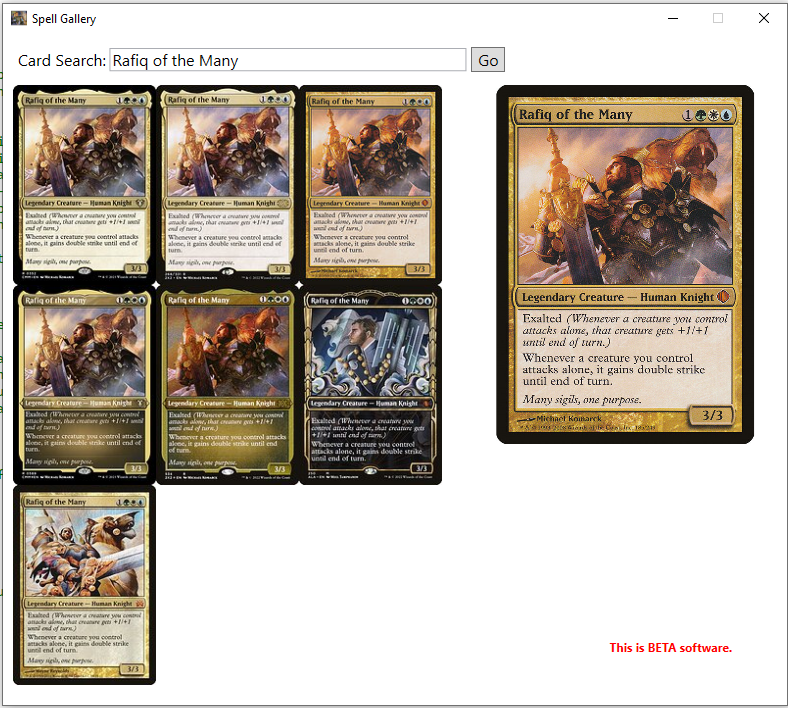
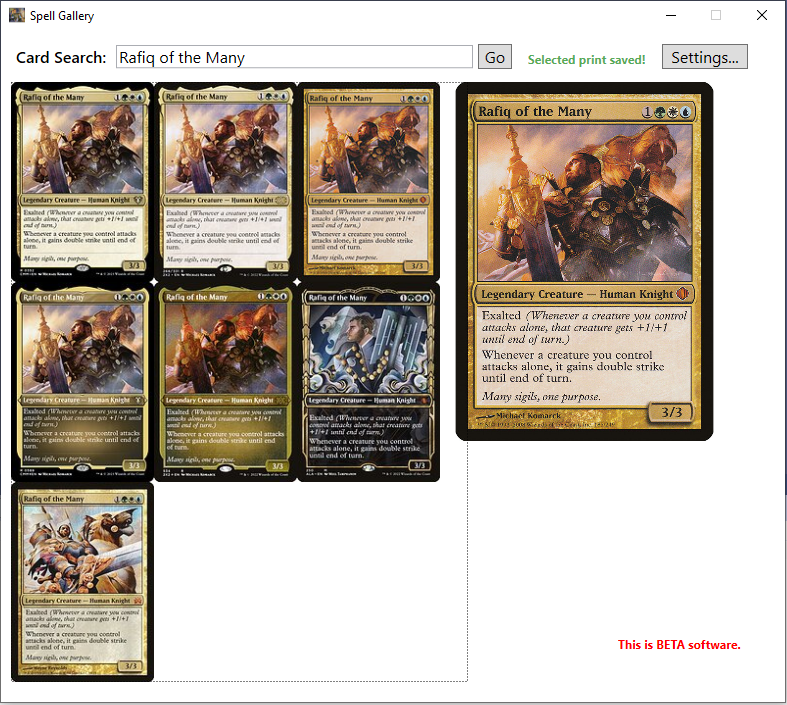
ARR - v0.1.0 - Added setting for custom pics folder

diff --git a/SpellGallery/MainWindow.xaml b/SpellGallery/MainWindow.xaml
@@ -11,13 +11,9 @@
         <autoComplete:CardsProvider x:Key="CardsProvider"/>
     </Window.Resources>
     <Grid>
-        <Grid.ColumnDefinitions>
-            <ColumnDefinition Width="79*"/>
-            <ColumnDefinition Width="721*"/>
-        </Grid.ColumnDefinitions>
-        <Label Content="Card Search:" HorizontalAlignment="Left" Margin="10,10,0,0" VerticalAlignment="Top" FontSize="16" Grid.ColumnSpan="2"/>
-        <editors:AutoCompleteTextBox x:Name="CardNameTextBox" Watermark="Please enter a card name." HorizontalAlignment="Left" Margin="29,14,0,0" VerticalAlignment="Top" Width="357" KeyUp="CardNameTextBox_KeyUp" FontSize="16" Provider="{StaticResource ResourceKey=CardsProvider}" Grid.Column="1" />
-        <Button x:Name="GoButton" Content="Go" HorizontalAlignment="Left" Margin="391,13,0,0" VerticalAlignment="Top" Click="GoButton_Click" FontSize="16" Width="34" Grid.Column="1"/>
+        <Label Content="Card Search:" HorizontalAlignment="Left" Margin="10,10,0,0" VerticalAlignment="Top" FontSize="16" FontWeight="SemiBold"/>
+        <editors:AutoCompleteTextBox x:Name="CardNameTextBox" Watermark="Please enter a card name." HorizontalAlignment="Left" Margin="115,14,0,0" VerticalAlignment="Top" Width="357" KeyUp="CardNameTextBox_KeyUp" FontSize="16" Provider="{StaticResource ResourceKey=CardsProvider}" />
+        <Button x:Name="GoButton" Content="Go" HorizontalAlignment="Left" Margin="477,13,0,0" VerticalAlignment="Top" Click="GoButton_Click" FontSize="16" Width="34"/>
         <ScrollViewer VerticalScrollBarVisibility="Auto" HorizontalScrollBarVisibility="Hidden" Width="457"  Margin="10,51,0,20" HorizontalAlignment="Left" Grid.ColumnSpan="2">
             <Grid x:Name="ThumbnailGrid" HorizontalAlignment="Stretch" VerticalAlignment="Top">
                 <Grid.ColumnDefinitions>
@@ -27,8 +23,9 @@
                 </Grid.ColumnDefinitions>
             </Grid>
         </ScrollViewer>
-        <Label x:Name="SavedLabel" Content="Selected print saved!" HorizontalAlignment="Left" Margin="563,11,0,0" VerticalAlignment="Top" RenderTransformOrigin="0,0.348" Foreground="Green" FontWeight="Bold" Opacity="0" Grid.Column="1"/>
-        <Image x:Name="PreviewImage" Height="359" Margin="395,51,12,0" VerticalAlignment="Top" Grid.Column="1"/>
-        <Label x:Name="BetaLabel" Grid.Column="1" Content="This is BETA software." HorizontalAlignment="Left" Margin="524,600,0,0" VerticalAlignment="Top" Foreground="Red" FontWeight="Bold"/>
+        <Label x:Name="SavedLabel" Content="Selected print saved!" HorizontalAlignment="Left" Margin="522,15,0,0" VerticalAlignment="Top" RenderTransformOrigin="0,0.348" Foreground="Green" FontWeight="Bold" Opacity="0"/>
+        <Image x:Name="PreviewImage" Height="359" Margin="395,51,12,0" VerticalAlignment="Top"/>
+        <Label x:Name="BetaLabel" Content="This is BETA software." HorizontalAlignment="Left" Margin="612,600,0,0" VerticalAlignment="Top" Foreground="Red" FontWeight="Bold"/>
+        <Button x:Name="SettingsButton" Content="Settings..." FontSize="16" HorizontalAlignment="Left" Margin="661,13,0,0" VerticalAlignment="Top" Width="86" Click="SettingsButton_Click"/>
     </Grid>
 </Window>

diff --git a/SpellGallery/SettingsWindow.xaml b/SpellGallery/SettingsWindow.xaml
@@ -1,0 +1,17 @@
+<Window x:Class="SpellGallery.SettingsWindow"
+        xmlns="http://schemas.microsoft.com/winfx/2006/xaml/presentation"
+        xmlns:x="http://schemas.microsoft.com/winfx/2006/xaml"
+        xmlns:d="http://schemas.microsoft.com/expression/blend/2008"
+        xmlns:mc="http://schemas.openxmlformats.org/markup-compatibility/2006"
+        xmlns:local="clr-namespace:SpellGallery"
+        mc:Ignorable="d"
+        Title="Spell Gallery Settings" Height="163" Width="875" Loaded="Window_Loaded" ResizeMode="NoResize" WindowStartupLocation="CenterScreen">
+    <Grid>
+        <Label Content="Custom Pics Folder:" HorizontalAlignment="Left" Margin="10,10,0,0" VerticalAlignment="Top" Width="167" FontSize="16" FontWeight="SemiBold"/>
+        <TextBox x:Name="CustomPicsFolderTextBox" HorizontalAlignment="Left" Margin="177,14,0,0" VerticalAlignment="Top" Width="562" FontSize="16"/>
+        <Button x:Name="CustomPicsFolderBrowseButton" Content="Browse..." FontSize="16" HorizontalAlignment="Left" Margin="744,14,0,0" VerticalAlignment="Top" Width="95" Click="CustomPicsFolderBrowseButton_Click"/>
+        <Button x:Name="SaveButton" Content="Save" FontSize="16" HorizontalAlignment="Left" Margin="702,73,0,0" VerticalAlignment="Top" Width="66" IsDefault="True" Click="SaveButton_Click"/>
+        <Button x:Name="CancelButon" Content="Cancel" FontSize="16" HorizontalAlignment="Left" Margin="773,73,0,0" VerticalAlignment="Top" Width="66" IsCancel="True"/>
+        <Button x:Name="DefaultButton" Content="Use Default Folder" FontSize="16" HorizontalAlignment="Left" Margin="177,42,0,0" VerticalAlignment="Top" Width="157" Click="DefaultButton_Click"/>
+    </Grid>
+</Window>

diff --git a/SpellGallery/MainWindow.xaml.cs b/SpellGallery/MainWindow.xaml.cs
@@ -11,6 +11,7 @@ using System.Windows.Input;
 using System.Windows.Media;
 using System.Windows.Media.Animation;
 using System.Windows.Media.Imaging;
+using SpellGallery.Configuration;
 using SpellGallery.Scryfall;
 using SpellGallery.Scryfall.Models;
 using Exception = System.Exception;
@@ -24,16 +25,17 @@ namespace SpellGallery
     public partial class MainWindow
     {
         #region Private Data Members
-        // Path to the Cockatrice custom art directory, e.g. C:\Users\Username\AppData\Local\Cockatrice\Cockatrice\pics\CUSTOM
-        private readonly string customArtDirectory = Path.Combine(Environment.GetFolderPath(Environment.SpecialFolder.LocalApplicationData), "Cockatrice", "Cockatrice", "pics", "CUSTOM");
-
         // Reusable HTTP Client
         private readonly HttpClient httpClient = new HttpClient();
 
         // Catalog of large bitmap images by URL to quickly swap cache bitmaps on the image preview
         private readonly Dictionary<string, BitmapImage> urlBitmaps = new Dictionary<string, BitmapImage>();
 
+        // The current thumbnail the user clicked down
         private Image mouseDownThumbnail;
+
+        // The program's settings
+        private SpellGallerySettings settings;
         #endregion
 
         #region Constructors
@@ -45,16 +47,12 @@ namespace SpellGallery
             try
             {
                 InitializeComponent();
-
-                if (!Directory.Exists(customArtDirectory))
-                    throw new DirectoryNotFoundException($"Cockatrice custom pics folder not found: {customArtDirectory}");
             }
             catch (Exception ex)
             {
                 HandleException(ex);
             }
         }
-
         #endregion
 
         #region Private Event Handlers
@@ -64,6 +62,10 @@ namespace SpellGallery
             try
             {
                 CardNameTextBox.Focus();
+                settings = SpellGallerySettings.Load();
+
+                if (!Directory.Exists(settings.CustomPicsFolder))
+                    throw new DirectoryNotFoundException($"Cockatrice custom pics folder not found: {settings.CustomPicsFolder}{Environment.NewLine}{Environment.NewLine}Please use the Settings to configure your custom pics folder.");
             }
             catch (Exception ex)
             {
@@ -71,7 +73,7 @@ namespace SpellGallery
             }
         }
 
-        // User taps a key, catches <ENTER>
+        // User taps a key (for catching <ENTER>)
         private async void CardNameTextBox_KeyUp(object sender, KeyEventArgs e)
         {
             try
@@ -129,7 +131,7 @@ namespace SpellGallery
                 var card = (Card)image.Tag;
 
                 var imageBytes = httpClient.GetByteArrayAsync(card.ImageUris.Large).Result;
-                var artPath = Path.Combine(customArtDirectory, $"{card.Name}.jpg");
+                var artPath = Path.Combine(settings.CustomPicsFolder, $"{card.Name}.jpg");
                 
                 File.WriteAllBytes(artPath, imageBytes);
 
@@ -188,6 +190,24 @@ namespace SpellGallery
                 HandleException(ex);
             }
         }
+
+        // User clicked the settings buton
+        private void SettingsButton_Click(object sender, RoutedEventArgs e)
+        {
+            try
+            {
+                var settingsWindow = new SettingsWindow(settings);
+                if (settingsWindow.ShowDialog() == true)
+                {
+                    settings = settingsWindow.Settings;
+                    settings.Save();
+                }
+            }
+            catch (Exception ex)
+            {
+                HandleException(ex);
+            }
+        }
         #endregion
 
         #region Private Methods
@@ -227,6 +247,7 @@ namespace SpellGallery
             }
         }
 
+        // Given a card and location, creates a thumbnail image in the grid
         private Image CreateThumbnailImage(Card card, int col, int row)
         {
             if (card.ImageUris?.Small == null)
@@ -255,6 +276,7 @@ namespace SpellGallery
             return image;
         }
 
+        // Animate the image to indicate it's been selected/clicked
         private void Animate(Image image)
         {
             image.RenderTransform = new ScaleTransform()

diff --git a/SpellGallery/SettingsWindow.xaml.cs b/SpellGallery/SettingsWindow.xaml.cs
@@ -1,0 +1,112 @@
+#region Using Directives
+using System;
+using System.IO;
+using SpellGallery.Configuration;
+using System.Windows;
+using System.Windows.Forms;
+using Microsoft.Win32;
+using MessageBox = System.Windows.MessageBox;
+
+#endregion
+
+namespace SpellGallery
+{
+    /// <summary>
+    /// Interaction logic for SettingsWindow.xaml
+    /// </summary>
+    public partial class SettingsWindow
+    {
+        #region Public Properties
+        /// <summary>
+        /// The program settings
+        /// </summary>
+        public SpellGallerySettings Settings { get; set; }
+        #endregion
+
+        #region Constructors
+        /// <summary>
+        /// Constructor with program settings
+        /// </summary>
+        /// <param name="settings">The program's settings (object will not be modified)</param>
+        public SettingsWindow(SpellGallerySettings settings)
+        {
+            InitializeComponent();
+
+            Settings = (SpellGallerySettings)settings.Clone();
+        }
+        #endregion
+
+        #region Private Event Handlers
+        // Form is loaded for the first time
+        private void Window_Loaded(object sender, RoutedEventArgs e)
+        {
+            try
+            {
+                if (Settings == null)
+                    return;
+
+                CustomPicsFolderTextBox.Text = Settings.CustomPicsFolder;
+                CustomPicsFolderTextBox.Focus();
+            }
+            catch (Exception ex)
+            {
+                HandleException(ex);
+            }
+        }
+
+        // User clicked the Browse button for custom pics folder
+        private void CustomPicsFolderBrowseButton_Click(object sender, RoutedEventArgs e)
+        {
+            try
+            {
+                var dlg = new FolderBrowserDialog();
+                if (dlg.ShowDialog() == System.Windows.Forms.DialogResult.OK)
+                    CustomPicsFolderTextBox.Text = dlg.SelectedPath;
+            }
+            catch (Exception ex)
+            {
+                HandleException(ex);
+            }
+        }
+
+        // User clicks the Save button
+        private void SaveButton_Click(object sender, RoutedEventArgs e)
+        {
+            try
+            {
+                if (!Directory.Exists(CustomPicsFolderTextBox.Text))
+                    throw new DirectoryNotFoundException($"Folder does not exist: {CustomPicsFolderTextBox.Text}");
+
+                Settings.CustomPicsFolder = CustomPicsFolderTextBox.Text;
+                DialogResult = true;
+                Close();
+            }
+            catch (Exception ex)
+            {
+                HandleException(ex);
+            }
+        }
+
+        // User clicks the Use Default button
+        private void DefaultButton_Click(object sender, RoutedEventArgs e)
+        {
+            try
+            {
+                CustomPicsFolderTextBox.Text = new SpellGallerySettings().CustomPicsFolder;
+            }
+            catch (Exception ex)
+            {
+                HandleException(ex);
+            }
+        }
+        #endregion
+
+        #region Private Methods
+        // Shows an error message to the user
+        private void HandleException(Exception ex)
+        {
+            MessageBox.Show($"Error: {ex.Message}", Title);
+        }
+        #endregion
+    }
+}

diff --git a/SpellGallery/Configuration/SpellGallerySettings.cs b/SpellGallery/Configuration/SpellGallerySettings.cs
@@ -1,0 +1,67 @@
+#region Using Directives
+using Newtonsoft.Json;
+using System;
+using System.IO;
+#endregion
+
+namespace SpellGallery.Configuration
+{
+    public class SpellGallerySettings : ICloneable
+    {
+        // The path to the program's settings file
+        private static string SettingsPath => Path.Combine(Environment.GetFolderPath(Environment.SpecialFolder.LocalApplicationData), "SpellGallery", "Settings.json");
+
+        #region Public Properties
+        /// <summary>
+        /// Path to the Cockatrice custom pics directory, e.g. C:\Users\Username\AppData\Local\Cockatrice\Cockatrice\pics\CUSTOM
+        /// </summary>
+        public string CustomPicsFolder { get; set; } = Path.Combine(Environment.GetFolderPath(Environment.SpecialFolder.LocalApplicationData), "Cockatrice", "Cockatrice", "pics", "CUSTOM");
+        #endregion
+
+        #region Public Methods
+        /// <summary>
+        /// Loads the program's settings from the user's app data
+        /// </summary>
+        /// <returns></returns>
+        public static SpellGallerySettings Load()
+        {
+            if (!File.Exists(SettingsPath))
+                return new SpellGallerySettings();
+
+            string json = File.ReadAllText(SettingsPath);
+            try
+            {
+                return JsonConvert.DeserializeObject<SpellGallerySettings>(json);
+            }
+            catch
+            {
+                return new SpellGallerySettings();
+            }
+        }
+
+        /// <summary>
+        /// Saves the settings to the settings file
+        /// </summary>
+        /// <exception cref="DirectoryNotFoundException"></exception>
+        public void Save()
+        {
+            string settingsDir = Path.GetDirectoryName(SettingsPath)
+                                 ?? throw new DirectoryNotFoundException($"Could not determine directory of path [{SettingsPath}]");
+            Directory.CreateDirectory(settingsDir);
+            string json = JsonConvert.SerializeObject(this, Formatting.Indented);
+            File.WriteAllText(SettingsPath, json);
+        }
+        #endregion
+
+        #region ICloneable
+        /// <summary>
+        /// Performs a memberwise clone of the settings
+        /// </summary>
+        /// <returns>A cloned instance of the settings</returns>
+        public object Clone()
+        {
+            return MemberwiseClone();
+        }
+        #endregion
+    }
+}

diff --git a/SpellGallery/Properties/AssemblyInfo.cs b/SpellGallery/Properties/AssemblyInfo.cs
@@ -51,5 +51,5 @@ using System.Windows;
 // You can specify all the values or you can default the Build and Revision Numbers
 // by using the '*' as shown below:
 // [assembly: AssemblyVersion("1.0.*")]
-[assembly: AssemblyVersion("0.0.0.0")]
-[assembly: AssemblyFileVersion("0.0.0.0")]
+[assembly: AssemblyVersion("0.1.0.1")]
+[assembly: AssemblyFileVersion("0.1.0.1")]

diff --git a/README.md b/README.md
@@ -6,6 +6,10 @@ A little helper Windows app that assists in the selection of card art/edition fo
 ## Screenshot
 ![Spell Gallery screenshot](https://raw.githubusercontent.com/andyrut/spell-gallery/master/screenshot.png "Spell Gallery screenshot")
 
+## Version History
+* v0.1.0.1 - Added setting for custom pics folder
+* v0.0.0.0 - Initial BETA release
+
 ## Author
 Andy Rutledge
 [andyrut.com](https://www.andyrut.com)
